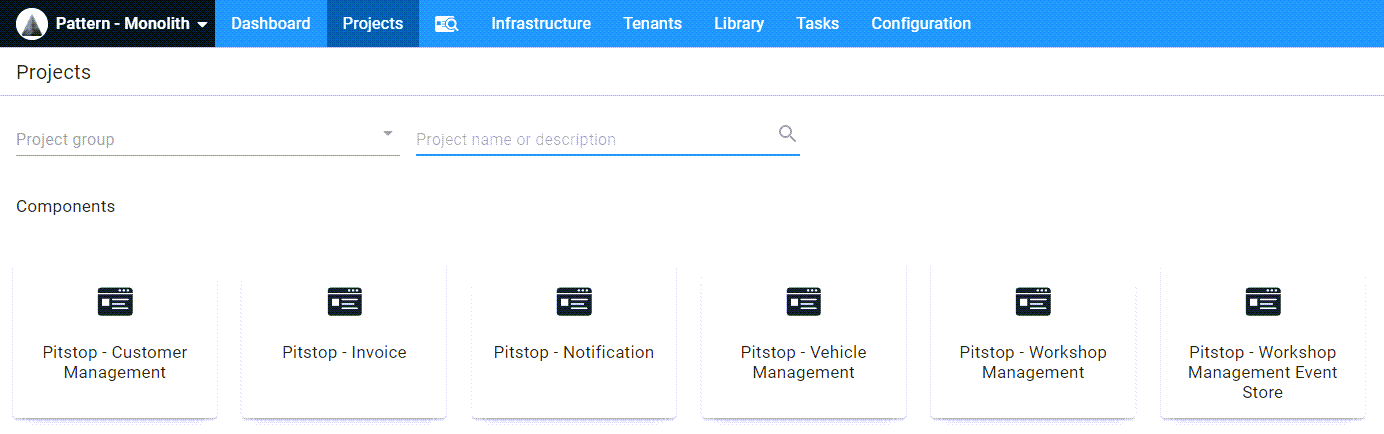
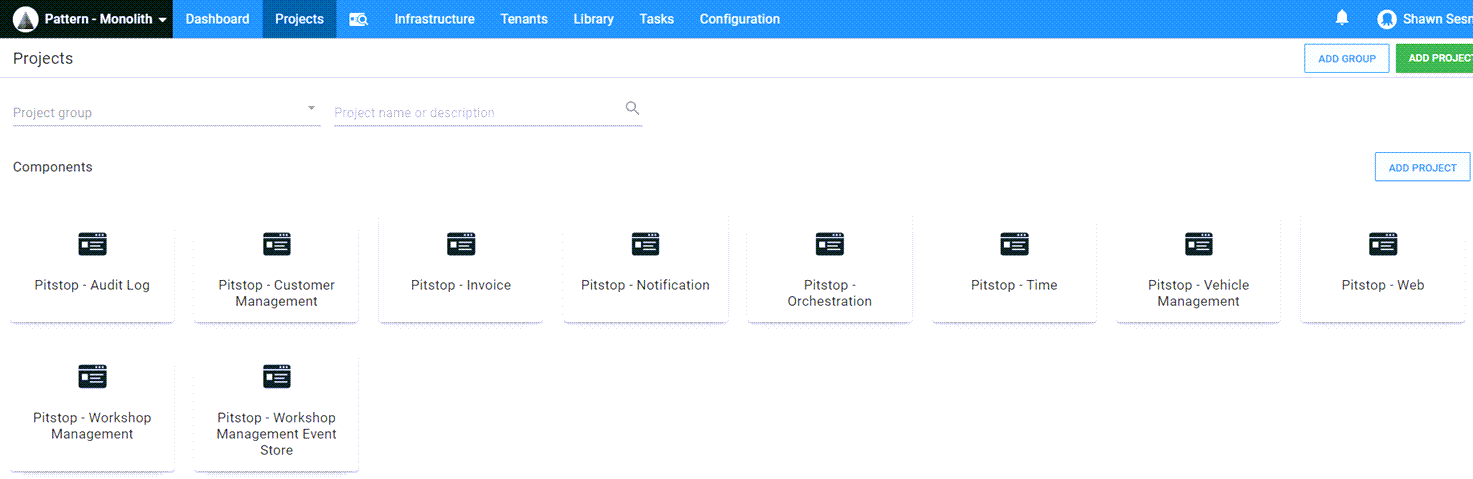
First draft

diff --git a/blog/2020-11/breaking-up-monolith-deployments/index.md b/blog/2020-11/breaking-up-monolith-deployments/index.md
@@ -9,15 +9,15 @@ bannerImage:
 tags:
 ---
 
-The term `monolithic deployment` often carries a negetive connotation, however, monolithic deployments are the natural progression of an application that has grown over time.  In this post, I'll demonstrate considerations in breaking apart a monolithic process into smaller deployable components.
+The term `monolithic deployment` often carries a negetive connotation, however, monolithic deployments are the natural progression of an application that has grown over time.  In this post, I'll demonstrate breaking apart a monolithic process into smaller deployable components.
 
 ## Pitstop
-For this post, I chose the [Pitstop](https://github.com/EdwinVW/pitstop) to use as an example.  The reason I chose this application was that it contained multiple moving parts:
+For this post, I chose the [Pitstop](https://github.com/EdwinVW/pitstop) application to use as an example.  The reason I chose this application was that it contained multiple moving parts:
 - Web front end
 - APIs
 - Microservices
 - Databases
-- Third-party docker containers
+- References third-party docker containers
 
 The original version of this application embedded the database and table creation within the C# code itself.  To make a more useful demonstration, I extracted the database activities and placed them into the deployment process.  In addition, the APIs and Web front end were all dockerized.  Again, I modified this so they could be deployed to Azure instead of containers.  The modified version can be found [here](https://github.com/OctopusSamples/PitStop).
 
@@ -63,6 +63,25 @@ Looking at our deployment process, we can identify some of the steps that are re
 
 ![](octopus-project-invoice.png)
 
-Deployment of the Invoice components now takes only a minute versus the 15 minutes in the monolith.  This is a significant time savings especially in cases where the Invoice components are the only pieces that need updating.
+Deployment of the Invoice components now takes only 1 minute versus the 15 minutes in the monolith.  This is a significant time savings especially in cases where the Invoice components are the only pieces that need updating.
 
-## Deploying
+Breaking out the entire process into different projects would yield something similar to this
+
+![](octopus-component-projects.png)
+
+Each component of the application has been broken out into their respective projects and can now be deployed individually.
+
+## Deployment orchestration
+Now that we have our application broken up into separate deployable components, we're faced with the issue of orchestrating several projects when needing to deploy the whole solution.  
+
+### Create an orchestration project
+Octopus Deploy contains a built-in step template called [Deploy a Release](https://octopus.com/docs/projects/coordinating-multiple-projects/deploy-release-step).  This feature allows you to choose a different project and deploy the latest release from it (the community template of [Chain deployment](https://library.octopus.com/step-templates/18392835-d50e-4ce9-9065-8e15a3c30954/actiontemplate-chain-deployment) has similar functionality).  The `Deploy a Release` comes with the ability to pass variables to the child project in the event it has prompted variables.
+
+![](octopus-project-orchestration.png)
+
+Using the `Deploy a Release` template does come with a couple caveats:
+- The child project release must be created prior to the orchestration project release creation.  This can be accompolished by using our build server plugins to create the release from the build or using the CLI.
+- Unable to choose specific release version of child projects.
+
+## Conclusion
+Automating the deployment of an application is a critical step in your DevOps journey.  Once your deployment process has reached monolithic proportions, the next step is to identify which components can be deployed individually, which is often easier said than done.  A side-effect of this exercise is that the same components that can be deployed individually can usually be built indvidually which can drastically cut down on build duration and lead to lower lead times.  With build duration an deployment time lowered, you have the capability to deploy your application faster and more often.
